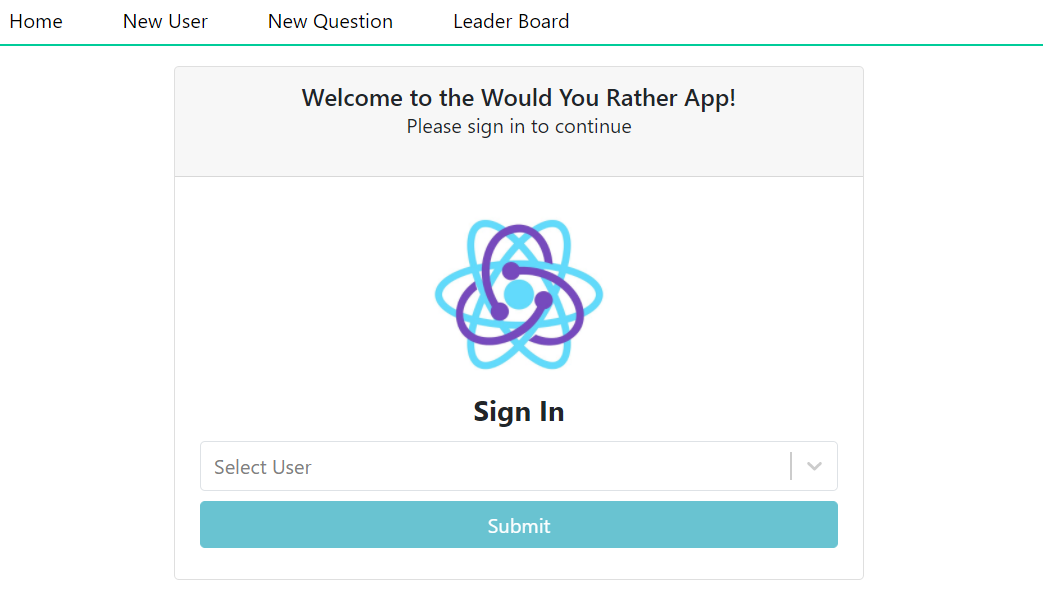
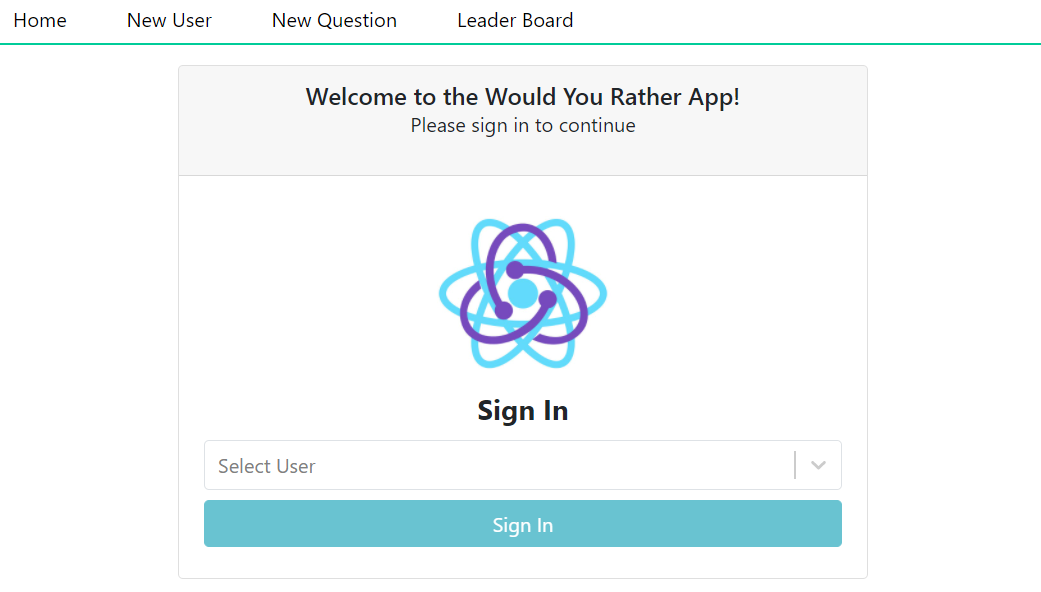
refactor: Updated README and Login page
Updated the Login page renaming the Submit button with the label
Sign In. Also, updated the README file adding line breaks after each
image. Finally, updated three images based in the change done into the
Login page.

diff --git a/src/components/UserSelector.js b/src/components/UserSelector.js
@@ -68,7 +68,7 @@ class UserSelector extends Component {
           className="sign-in-btn"
           disabled={ !selectedUser }
         >
-          Submit
+          Sign In
         </Button>
       </Form>
     )

diff --git a/README.md b/README.md
@@ -28,9 +28,9 @@ To run the **Would You Rather** app, just type the following into your terminal:
 
 ### Login
 
-Once the app is running, the first view you will see, will be the **Login** page where you will find a navigation bar, a logo, a dropdown menu with the existing users and a Sign In button.
+Once the app is running, the first view you will see, will be the **Login** page where you will find a navigation bar, a logo, a dropdown menu with the existing users and a `Sign In` button.
 
-![](https://github.com/fdcolon/udacity-would-you-rather/blob/main/public/login-01.png)
+![](https://github.com/fdcolon/udacity-would-you-rather/blob/main/public/login-01.png)  
 **Figure 1** - Login Page
 
 The first time the app is running and while no new user be added, the users dropdown will contain four users:
@@ -39,66 +39,66 @@ The first time the app is running and while no new user be added, the users drop
   3. `Tyler McGinnis`, the second user from the fake database.
   4. `John Doe`, the third and last valid user from the fake database.
 
-![](https://github.com/fdcolon/udacity-would-you-rather/blob/main/public/login-02.png)
+![](https://github.com/fdcolon/udacity-would-you-rather/blob/main/public/login-02.png)  
 **Figure 2** - Users List
 
 > :warning: The `Sign In` button will be enabled ONLY when a user is selected.
 
-If you select the `Ghost User`, you will get an error message saying that the user is invalid.
+If you select the `Ghost User` and click on the `Sign In` button, you will get an error message saying that the user is invalid.
 
-![](https://github.com/fdcolon/udacity-would-you-rather/blob/main/public/login-03.png)
+![](https://github.com/fdcolon/udacity-would-you-rather/blob/main/public/login-03.png)  
 **Figure 3** - Invalid Access
 
 Once you select a valid user and click on the `Sign In` button, you will be able to access the `Home` page.
 
-![](https://github.com/fdcolon/udacity-would-you-rather/blob/main/public/home-01.png)
+![](https://github.com/fdcolon/udacity-would-you-rather/blob/main/public/home-01.png)  
 **Figure 4** - Home Page
 
 ### Navigation Bar
 
 When you accesed the app with a valid user, the `Navigation Bar` will be enabled to navigate through the menus, such as:
-    - `Home`, is the main page for logged users which contains two tabs:
-        - `Unanswered Questions`, the list of polls that haven't been answered by the logged user.
-        - `Answered Questions`, the list of polls that already have been answered by the logged user.
-    - `New User`, allows to create new users.
-    - `New Question`, allows to create a new poll.
-    - `Leader Board`, displays the first three positions based on the total polls answered and created.
-    - `User info`, it contains a `Hello` message followed by the logged user's name and his/her avatar.
-    - `Logout`, it allows to close the current session.
+  * `Home`, is the main page for logged users which contains two tabs:
+    * `Unanswered Questions`, the list of polls that haven't been answered by the logged user.
+    * `Answered Questions`, the list of polls that already have been answered by the logged user.
+  * `New User`, allows to create new users.
+  * `New Question`, allows to create a new poll.
+  * `Leader Board`, displays the first three positions based on the total polls answered and created.
+  * `User info`, it contains a `Hello` message followed by the logged user's name and his/her avatar.
+  * `Logout`, it allows to close the current session.
 
-![](https://github.com/fdcolon/udacity-would-you-rather/blob/main/public/navbar-01.png)
+![](https://github.com/fdcolon/udacity-would-you-rather/blob/main/public/navbar-01.png)  
 **Figure 5** - Navigation Bar
 
 > :rotating_light: If you are not logged in and you try to navigate thorugh the `Navigation Bar`, you will be redirected to the `Login` page.
 
-> :warning: Once you are logged in, please only use the `Navigation Bar` to navigate through the app. You shouldn't type any URL into the browser's address bar or you will be logged out.
+Be aware that once you are logged in, you should use only the `Navigation Bar` to navigate through the app. You shouldn't type any URL into the browser's address bar or you will be logged out.
 
 #### Home Page
 
 This is the main page for the logged users which contains two tabs: `Unanswered Questions` (**default view**) and `Answered Questions`.
 
-![](https://github.com/fdcolon/udacity-would-you-rather/blob/main/public/home-01.png)
-**Figure 6** - Unanswered Questions Tab (default view)
+![](https://github.com/fdcolon/udacity-would-you-rather/blob/main/public/home-01.png)  
+**Figure 6** - Unanswered Questions Tab (default view)  
 
-![](https://github.com/fdcolon/udacity-would-you-rather/blob/main/public/home-02.png)
+![](https://github.com/fdcolon/udacity-would-you-rather/blob/main/public/home-02.png)  
 **Figure 7** - Answered Questions Tab
 
 If you are in the `Unanswered Questions` and click on the `View Poll` button of a poll, you will be redirected to the poll details where you should select an option and vote by clicking on the `Submit` button.
 
-![](https://github.com/fdcolon/udacity-would-you-rather/blob/main/public/poll-details-01.png)
+![](https://github.com/fdcolon/udacity-would-you-rather/blob/main/public/poll-details-01.png)  
 **Figure 8** - Poll Details (vote form)
 
 When you submit your vote, the view will be updated to an informative page that shows the poll details, your vote selection, the total votes and the percentage of votes per option. The option selected by you will be highlighted with a light green background and an award pin with the legend `Your Vote`.
 
-![](https://github.com/fdcolon/udacity-would-you-rather/blob/main/public/poll-details-02.png)
+![](https://github.com/fdcolon/udacity-would-you-rather/blob/main/public/poll-details-02.png)  
 **Figure 9** - Poll Details (results view)
 
 Once you voted, you can go back to the `Home` page noticing the `Unanswered Questions` tab has been updated removing the poll you voted from the list and placed it into the `Answered Questions` tab.
 
-![](https://github.com/fdcolon/udacity-would-you-rather/blob/main/public/home-03.png)
-**Figure 10** - Unanswered Questions Tab without voted poll
+![](https://github.com/fdcolon/udacity-would-you-rather/blob/main/public/home-03.png)  
+**Figure 10** - Unanswered Questions Tab without voted poll  
 
-![](https://github.com/fdcolon/udacity-would-you-rather/blob/main/public/home-04.png)
+![](https://github.com/fdcolon/udacity-would-you-rather/blob/main/public/home-04.png)  
 **Figure 11** - Answered Questions Tab with the recet voted poll added (3rd position)
 
 > :warning: The polls list in each tab are arranged from the most recently created (top) to the least recently created (bottom).
@@ -106,59 +106,59 @@ Once you voted, you can go back to the `Home` page noticing the `Unanswered Ques
 #### New User
 
 This section allows you to create a new user (if you would like to). The requested fields are:
-    - `User ID`
-    - `User Name`
-    - `User Avatar`
+  * `User ID`
+  * `User Name`
+  * `User Avatar`
 
-![](https://github.com/fdcolon/udacity-would-you-rather/blob/main/public/new-user-01.png)
-**Figure 12** - New User Form
+![](https://github.com/fdcolon/udacity-would-you-rather/blob/main/public/new-user-01.png)  
+**Figure 12** - New User Form  
 
 > :rotating_light: All the fields are mandatory, if any is missing it will be displayed an error message per field and the `Submit` button will be `disabled`.
 
-![](https://github.com/fdcolon/udacity-would-you-rather/blob/main/public/new-user-02.png)
-**Figure 13** - New User Form (error messages due missing data)
+![](https://github.com/fdcolon/udacity-would-you-rather/blob/main/public/new-user-02.png)  
+**Figure 13** - New User Form (error messages due missing data)  
 
 > :rotating_light: You cannot use an existing `User ID` or `User Name`. Otherwise, an error message will be displayed and the `Submit` button will be `disabled`.
 
-![](https://github.com/fdcolon/udacity-would-you-rather/blob/main/public/new-user-03.png)
+![](https://github.com/fdcolon/udacity-would-you-rather/blob/main/public/new-user-03.png)  
 **Figure 14** - New User Form (error messages due duplicated data)
 
 Once you completed the form successfully, all the filed will have a green border which indicates everything is **OK**. You will also notice that the `Submit` button will be enabled.
 
-![](https://github.com/fdcolon/udacity-would-you-rather/blob/main/public/new-user-04.png)
+![](https://github.com/fdcolon/udacity-would-you-rather/blob/main/public/new-user-04.png)  
 **Figure 15** - New User Form (valid form)
 
 Once you submit the form and the new user has been created, it will be displayed a success message. You will also notice that the form has been reset.
 
-![](https://github.com/fdcolon/udacity-would-you-rather/blob/main/public/new-user-05.png)
+![](https://github.com/fdcolon/udacity-would-you-rather/blob/main/public/new-user-05.png)  
 **Figure 16** - New User Form (success message)
 
 #### New Question
 
 This section allows you to create a new poll and assign it to the user you are logged in with. It is a simple form made up of two text inputs where you need to specify the two options for voting: `Option One` and `Option Two`.
 
-![](https://github.com/fdcolon/udacity-would-you-rather/blob/main/public/new-question-01.png)
-**Figure 17** - New Question Form
+![](https://github.com/fdcolon/udacity-would-you-rather/blob/main/public/new-question-01.png)  
+**Figure 17** - New Question Form  
 
 > :rotating_light: All the fields are mandatory, if any is missing it will be displayed an error message per field and the `Submit` button will be `disabled`.
 
-![](https://github.com/fdcolon/udacity-would-you-rather/blob/main/public/new-question-02.png)
-**Figure 18** - New Question Form (error messages due missing data)
+![](https://github.com/fdcolon/udacity-would-you-rather/blob/main/public/new-question-02.png)  
+**Figure 18** - New Question Form (error messages due missing data)  
 
 > :rotating_light: You cannot use `both` or `neither` as options. Otherwise, an error message will be displayed and the `Submit` button will be `disabled`.
 
-![](https://github.com/fdcolon/udacity-would-you-rather/blob/main/public/new-question-03.png)
+![](https://github.com/fdcolon/udacity-would-you-rather/blob/main/public/new-question-03.png)  
 **Figure 19** - New Question Form (error messages due invalid values)
 
 Once you completed the form successfully, all the filed will have a green border which indicates everything is **OK**. You will also notice that the `Submit` button will be enabled.
 
-![](https://github.com/fdcolon/udacity-would-you-rather/blob/main/public/new-question-04.png)
+![](https://github.com/fdcolon/udacity-would-you-rather/blob/main/public/new-question-04.png)  
 **Figure 20** - New Question Form (valid form)
 
 Once you submit the form and the new question has been created, you will be redirected to the `Home` page where you should see your new poll at the very top of the list into the `Unanswered Questions`.
 
-![](https://github.com/fdcolon/udacity-would-you-rather/blob/main/public/new-question-05.png)
-**Figure 21** - New Question Form (success message)
+![](https://github.com/fdcolon/udacity-would-you-rather/blob/main/public/new-question-05.png)  
+**Figure 21** - Home Page (new question added)
 
 #### Leader Board
 
@@ -169,36 +169,36 @@ This section allows you to see the first three positions of the users activity: 
 
 #### Logout
 
-If you would like to close the current session and sign in with another user, just click on the Logout button located at the very end (right side) of the navigation bar.
+If you would like to close the current session and sign in with another user, just click on the `Logout` button located at the very end (right side) of the navigation bar.
 
 ![](https://github.com/fdcolon/udacity-would-you-rather/blob/main/public/logout-01.png)
 **Figure 23** - Logout
 
 ### Login with new users.
 
-If you create a new user, you should be able to see it into the users list in the `Login` page. If you would like to sign in using his/her account, just select the new user and click on the `Sign In` button.
+If you created a new user, you should be able to see it into the users list in the `Login` page. If you would like to sign in using his/her account, just select the new user and click on the `Sign In` button.
 
-![](https://github.com/fdcolon/udacity-would-you-rather/blob/main/public/new-user-login-01.png)
+![](https://github.com/fdcolon/udacity-would-you-rather/blob/main/public/new-user-login-01.png)  
 **Figure 24** - New User Sign In
 
 Once you signed in as the new user, you should see the `Home` page with all the polls into the `Unanswered Questions` tab and his/her details in the `Navigation Bar`.
 
-![](https://github.com/fdcolon/udacity-would-you-rather/blob/main/public/new-user-home-01.png)
-**Figure 25** - New User Home Page (first login)
+![](https://github.com/fdcolon/udacity-would-you-rather/blob/main/public/new-user-home-01.png)  
+**Figure 25** - New User Home Page (first login)  
 
 > :warning: If you go to the `Answered Questions` (the very first time you login with the new user), you will get a message letting you know that `You don't have any answered questions`.
 
-![](https://github.com/fdcolon/udacity-would-you-rather/blob/main/public/new-user-home-02.png)
-**Figure 26** - New User Home Page - Answered Questions Tab (first login)
+![](https://github.com/fdcolon/udacity-would-you-rather/blob/main/public/new-user-home-02.png)  
+**Figure 26** - New User Home Page - Answered Questions Tab (first login)  
 
 > :warning: Similarly, if you go answer all the polls and go to the `Unanswered Questions`, you will get a message letting you know that `You don't have any unanswered questions`.
 
-![](https://github.com/fdcolon/udacity-would-you-rather/blob/main/public/new-user-home-03.png)
-**Figure 27** - New User Home Page - Unanswered Questions Tab (all polls voted)
+![](https://github.com/fdcolon/udacity-would-you-rather/blob/main/public/new-user-home-03.png)  
+**Figure 27** - New User Home Page - Unanswered Questions Tab (all polls voted)  
 
 > :warning: **Remember**, everytime you vote or create new polls, the `Leader Board` will be updated.
 
-![](https://github.com/fdcolon/udacity-would-you-rather/blob/main/public/leader-board-02.png)
+![](https://github.com/fdcolon/udacity-would-you-rather/blob/main/public/leader-board-02.png)  
 **Figure 28** - Leader Board updated after user activity.
 
 ### Page Not Found
@@ -216,7 +216,7 @@ If you would like to test it, you can use the following URL:
 http://localhost:3000/questions/vthrdm985a262al8qxabc
 ```
 
-> :warning: If you provide an valid path to see the details of an exisgint poll, you will be redirected to the `Login` page. This is because remember that everytime you provide a `URL` from the address bar, `React` will render everything from the very beggining and `Redux` will reset all the `store` values. To test it, you can try the following URL
+> :warning: If you provide a valid path to see the details of an exisgint poll, you will be redirected to the `Login` page. This is because remember that everytime you provide a `URL` from the address bar, `Redux` will reset all the `store` values. To test it, you can try the following URL.
 ```
 http://localhost:3000/questions/vthrdm985a262al8qx3do
 ```
